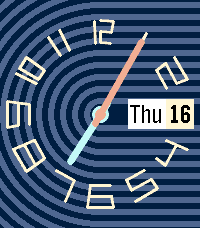
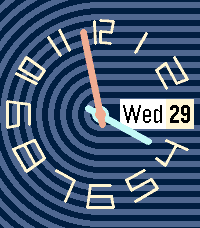
Widen weekday box to avoid truncation on larger screens

Changed region(s): [[0.33, 0.1228, 0.81, 0.7368], [0.84, 0.4605, 0.93, 0.5526], [0.93, 0.4605, 0.96, 0.4912]]

diff --git a/src/c/dial-dimens.h b/src/c/dial-dimens.h
@@ -22,13 +22,13 @@
 /* --- Ticks --- */
 #if PBL_DISPLAY_WIDTH >= 260
     #define DIMEN_DATE_SIZE GSize(28, 30)
-    #define DIMEN_WDAY_SIZE GSize(38, 30)
+    #define DIMEN_WDAY_SIZE GSize(46, 30)
 
     #define DIMEN_TICK_TEXT_SIZE 26
     #define DIMEN_TICK_STROKE_WIDTH 5
 #elif PBL_DISPLAY_WIDTH >= 200
     #define DIMEN_DATE_SIZE GSize(28, 30)
-    #define DIMEN_WDAY_SIZE GSize(38, 30)
+    #define DIMEN_WDAY_SIZE GSize(46, 30)
 
     #define DIMEN_TICK_TEXT_SIZE 22
     #define DIMEN_TICK_STROKE_WIDTH 3
